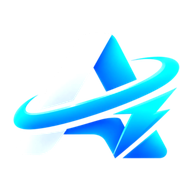
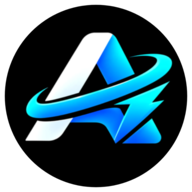
Brand: ganti seluruh ikon Akun Instan (webp terkompresi + ikon Android)

diff --git a/src/seo.js b/src/seo.js
@@ -144,7 +144,7 @@ const setJsonLd = (id, data) => {
 export function applySeo(page) {
   const seo = PAGE_SEO[page] || PAGE_SEO.store;
   const url = `${SITE_URL}${seo.path}`;
-  const image = `${SITE_URL}/favicon.svg`;
+  const image = `${SITE_URL}/icon-512.png`;
 
   document.title = seo.title;
   setMeta("name", "description", seo.description);
@@ -188,7 +188,7 @@ export function applyProductSeo(product, page) {
   const description = (rawDesc.replace(/\s+/g, " ").trim() ||
     `Beli ${name} di Akun Instan. Jumlah akun sesuai jumlah yang dibeli, detail login dikirim instan setelah pembayaran, garansi login.`).slice(0, 300);
   const title = `${name} — Jual Akun Digital Murah | ${SITE_NAME}`;
-  const image = `${SITE_URL}/favicon.svg`;
+  const image = `${SITE_URL}/icon-512.png`;
 
   document.title = title;
   setMeta("name", "description", description);

diff --git a/custom-email.html b/custom-email.html
@@ -7,7 +7,7 @@
   <title>Custom Email — Akun Instan</title>
   <link rel="stylesheet" href="/src/styles.css">
   <link rel="stylesheet" href="/src/fixes.css">
-  <link rel="icon" href="/favicon.svg">
+  <link rel="icon" href="/icon-512.png">
 </head>
 <body>
   <main class="cx-custom-page">
